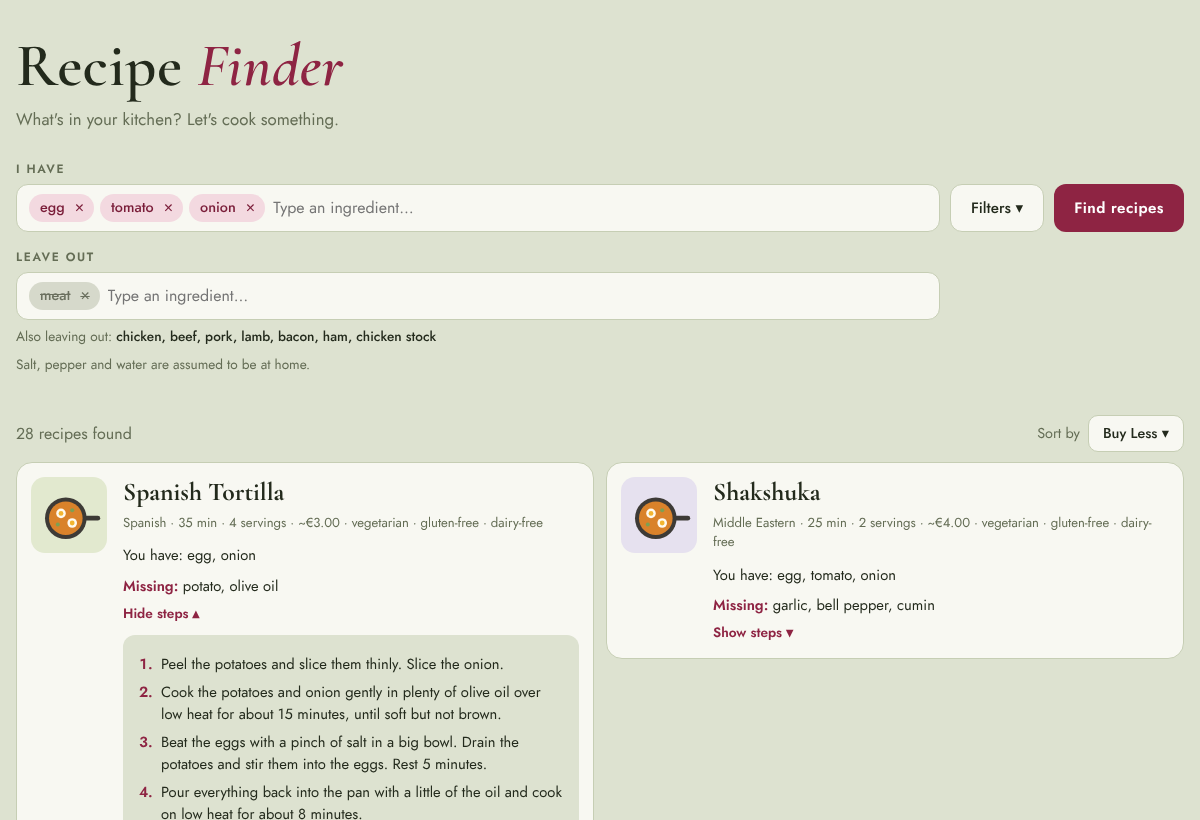
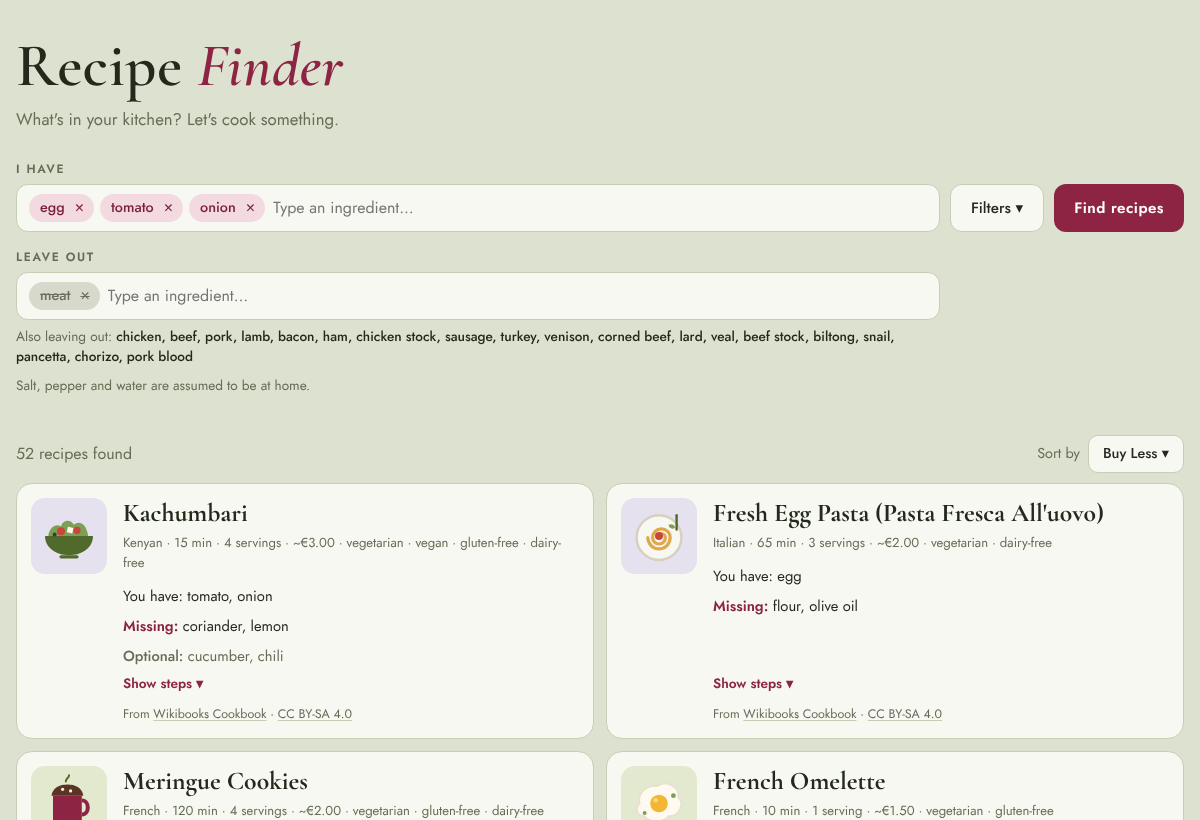
Move the credit line under the steps; tidy README and plan
- Each card's credit line ("From Wikibooks Cookbook · CC BY-SA 4.0") now sits
  at the bottom, under "Show steps" and the steps (owner-approved sketch)
- New check: the credit line is the last thing on every card
- README: 150 recipes from 47 cuisines, all from Wikibooks; new screenshot
- PLAN: import marked done; HANDOVER-IMPORTS.md removed (work finished)

Claude-Session: https://claude.ai/code/session_01PDe4ocPiVDgrp5Ur3A9yzY

Changed region(s): [[0.0, 0.4878, 0.9867, 1.0], [0.0, 0.4268, 0.2467, 0.4878], [0.37, 0.3963, 0.74, 0.4268]]

diff --git a/tests/page.test.js b/tests/page.test.js
@@ -351,6 +351,13 @@ check(`a recipe card shows "From Wikibooks Cookbook · CC BY-SA 4.0", linked, an
   assert.strictEqual(await page.locator(".card .source").count(), cards, "some cards have no credit line");
 });
 
+check("the credit line is the last thing on a card, under the cooking steps", async () => {
+  await openPage();
+  const lastOnCards = await page.$$eval(".card .card-body", (bodies) =>
+    [...new Set(bodies.map((body) => body.lastElementChild.className))]);
+  assert.deepStrictEqual(lastOnCards, ["source"]);
+});
+
 check('a recipe with optional ingredients shows "Optional: …" under its ingredients', async () => {
   await openPage();
   const chapati = page.locator(".card", { has: page.locator("h2", { hasText: "Chapati" }) });

diff --git a/style.css b/style.css
@@ -286,7 +286,7 @@ img.thumb { filter: none; }
 .card h2 { margin: 0 0 2px; font-family: var(--heading-font); font-weight: 700; font-size: 1.6rem; line-height: 1.15; }
 .card p { margin: 4px 0; font-size: 0.92rem; }
 .card .facts { color: var(--muted); font-size: 0.82rem; margin-bottom: 8px; }
-.card .source { color: var(--muted); font-size: 0.78rem; margin: -4px 0 8px; }
+.card .source { color: var(--muted); font-size: 0.78rem; margin: 10px 0 0; }
 .card .optional { color: var(--muted); }
 .card .optional b { font-weight: 500; }
 .card .source a { color: inherit; text-decoration: underline; text-decoration-color: var(--line); text-underline-offset: 2px; }

diff --git a/app.js b/app.js
@@ -357,13 +357,13 @@ function recipeCard({ recipe, labels, have, missing }) {
       <div class="card-body">
         <h2>${escapeText(recipe.name)}</h2>
         <p class="facts">${facts.join(" · ")}</p>
-        ${sourceLine(recipe)}
         ${ingredientLines}
         ${optional}
         <details class="steps">
           <summary><span class="when-closed">Show steps ▾</span><span class="when-open">Hide steps ▴</span></summary>
           <ol>${recipe.steps.map((step) => `<li>${escapeText(step)}</li>`).join("")}</ol>
         </details>
+        ${sourceLine(recipe)}
       </div>
     </article>`;
 }

diff --git a/PLAN.md b/PLAN.md
@@ -63,13 +63,11 @@
 3. A recipe that uses none of your ingredients doesn't appear.
 
 ## Later (Version 2+)
-- Import 150 recipes from Wikibooks Cookbook (CC BY-SA 4.0) and USDA MyPlate
-  Kitchen (USDA-written recipes only, public domain), in batches of ~25 approved by
-  the owner. Each imported card shows a credit line. See HANDOVER-IMPORTS.md on the
-  `import-recipes` branch. (Live recipe services were ruled out: paid, no storing
-  allowed, or they need a secret key a static site can't hide.)
-  Imported recipes with the same name as ours replace ours. Once all 150 are in,
-  our own 50 recipes will be removed (a separate step, approved by the owner).
+- Done: all 150 recipes come from the Wikibooks Cookbook (CC BY-SA 4.0), adapted in
+  batches approved by the owner. Each card shows a credit line under its steps. Our own
+  50 recipes were removed afterwards. (Live recipe services were ruled out: paid, no
+  storing allowed, or they need a secret key a static site can't hide.) USDA MyPlate
+  Kitchen (public domain) could add more later; it's blocked by the network settings.
 - Swaps (e.g. lime for lemon), considered and put off for now.
 - More filters: by cuisine, by allergen.
 - Real recipe photos from Unsplash (work parked on the `photos` branch, PR 10,

diff --git a/README.md b/README.md
@@ -8,7 +8,7 @@ Type what's in your kitchen and find something you can cook tonight.
 
 ## What it does
 
-- **200 recipes** from 50 cuisines, from Japanese Daifuku to Colombian bean stew, each with
+- **150 recipes** from 47 cuisines, from Japanese Daifuku to Colombian bean stew, each with
   cooking steps.
 - **I have:** type your ingredients (with suggestions as you go), and the recipes you can
   cook with the fewest extra purchases come first. Each card shows what you have and
@@ -57,11 +57,10 @@ every pull request.
 
 ## Recipe sources and licenses
 
-- Recipes marked **"From Wikibooks Cookbook"** are adapted from the
-  [Wikibooks Cookbook](https://en.wikibooks.org/wiki/Cookbook:Table_of_Contents) and
-  shared under [CC BY-SA 4.0](https://creativecommons.org/licenses/by-sa/4.0/). Each card
-  links to its original page. You're welcome to reuse them under the same license.
-- The other recipes were written for this project.
+All recipes are adapted from the
+[Wikibooks Cookbook](https://en.wikibooks.org/wiki/Cookbook:Table_of_Contents) and shared
+under [CC BY-SA 4.0](https://creativecommons.org/licenses/by-sa/4.0/). Each card links to its
+original page. You're welcome to reuse them under the same license.
 
 ## Plans
 
